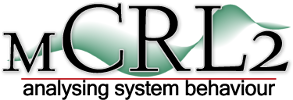
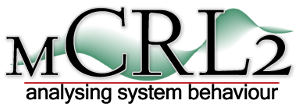
Added our corporate brand identity.

diff --git a/doc/sphinx/_static/css/mcrl2.css b/doc/sphinx/_static/css/mcrl2.css
@@ -3,56 +3,95 @@
  * ~~~~~~~~~~~~~~~~~~~~~~~~~~~~~~~~~~
  */
 
-@import 'theme.css';
+ @import 'theme.css';
 
-/* -- non-standard classes -------------------------------------------------- */
-table.docutils { margin: 0 auto; }
-table.docutils td { padding: 0.3em 0; }
-table.docutils caption { font-family: sans-serif; padding-bottom: 0.5em; border-bottom: 1px solid black; }
-table.docutils.field-list { margin: 0; }
-
-.citation {
-  display: flex;
-  flex-wrap: wrap;
-}
-.citation dt {
-  width: 7rem;
-  background-color: transparent; /* cancel highlighting of targeted line */
-}
-.citation dd {
-  width: calc(100% - 7rem);
-  margin-left: 0;
-  margin-top: 0;
-}
-.citation dd > p {
-  margin-bottom: 0;
-}
-
-/* citations don't have square brackets around them, so we add them with CSS */
-.citation .brackets:before { content: "["; }
-.citation .brackets:after { content: "]"; }
-
-div.tool-docs li { float: left; display: inline; width: 20%; }
-
-div.dparser .admonition-title {
-  font-family: monospace;
-}
-
-.admonition.admonition-release .admonition-title { display: none; }
-.admonition.admonition-release { margin: 1em 0; font-family: sans-serif; text-align: center; }
-
-.invisible {
-    display: none;
-}
-
-.smallcaps {
-    font-variant: small-caps;
-}
-
-/* -- custom layout ----------------------------------------------------------- */
-
-table.frontpage-table td { border: 0; margin: 0; padding: 0; }
-table.teamcity-blurb { margin-top: 1em; width: 100%; white-space: normal; }
-table.teamcity-blurb td { border: 0; vertical-align: middle; }
-
-img.frontpage-logo { margin-top: 1.5em; }
+ /* mCRL2 color theme */
+ :root {
+   --mcrl2-caption:hsl(153, 22%, 18%);
+   --mcrl2-title:hsl(152, 33%, 49%);
+   --mcrl2-light:#c3e2d4;
+ }
+ 
+ /* Non standard classes */
+ table.docutils { margin: 0 auto; }
+ table.docutils td { padding: 0.3em 0; }
+ table.docutils caption { font-family: sans-serif; padding-bottom: 0.5em; border-bottom: 1px solid black; }
+ table.docutils.field-list { margin: 0; }
+ 
+ .citation {
+   display: flex;
+   flex-wrap: wrap;
+ }
+ .citation dt {
+   width: 7rem;
+   background-color: transparent; /* cancel highlighting of targeted line */
+ }
+ .citation dd {
+   width: calc(100% - 7rem);
+   margin-left: 0;
+   margin-top: 0;
+ }
+ .citation dd > p {
+   margin-bottom: 0;
+ }
+ 
+ /* citations don't have square brackets around them, so we add them with CSS */
+ .citation .brackets:before { content: "["; }
+ .citation .brackets:after { content: "]"; }
+ 
+ div.tool-docs li { float: left; display: inline; width: 20%; }
+ div.tool-docs { clear: both; }
+ 
+ div.dparser .admonition-title {
+   font-family: monospace;
+ }
+ 
+ .admonition .admonition-title { background-color: var(--mcrl2-title); }
+ .rst-content .admonition { background: var(--mcrl2-light); }
+ 
+ .admonition.admonition-release .admonition-title { display: none; }
+ .admonition.admonition-release { margin: 1em 0; font-family: sans-serif; text-align: center; background-color:var(--mcrl2-light); }
+ 
+ .admonition.admonition-exercise .admonition-title { background-color: var(--mcrl2-title); }
+ .admonition.admonition-exercise { background-color: var(--mcrl2-light); }
+ 
+ .admonition.admonition-example .admonition-title { background-color: var(--mcrl2-title); }
+ .admonition.admonition-example { background-color: var(--mcrl2-light); }
+ 
+ .admonition.admonition-definition-lts .admonition-title { background-color: var(--mcrl2-title); }
+ .admonition.admonition-definition-lts { background-color: var(--mcrl2-light); }
+ 
+ .invisible {
+     display: none;
+ }
+ 
+ .smallcaps {
+     font-variant: small-caps;
+ }
+ 
+ /* Custom Layout */
+ 
+ table.frontpage-table td { border: 0; margin: 0; padding: 0; }
+ table.teamcity-blurb { margin-top: 1em; width: 100%; }
+ table.teamcity-blurb td { border: 0; vertical-align: middle; white-space: normal; }
+ 
+ img.frontpage-logo { margin-top: 1.5em; }
+ 
+ .rst-content .note {
+   background: var(--mcrl2-light);
+ }
+ .rst-content .note .admonition-title {
+   background: var(--mcrl2-title);
+ }
+ 
+ .wy-menu-vertical p.caption {
+   color: var(--mcrl2-title);
+ }
+ 
+ .wy-side-nav-search {
+   background-color: var(--mcrl2-caption);
+ }
+ 
+ .wy-side-nav-search > div.version {
+   color: var(--mcrl2-light);
+ }

diff --git a/doc/sphinx/conf.py b/doc/sphinx/conf.py
@@ -81,10 +81,11 @@ exclude_patterns = ['.git']
 # a list of builtin themes.
 #
 html_theme = 'sphinx_rtd_theme'
+html_style = 'css/mcrl2.css'
 html_theme_options = {
     'collapse_navigation': False,
     'logo_only': True,
-    'style_external_links': True
+    'style_external_links': False
 }
 html_logo = '_static/mcrl2.png'
 html_sidebars = {
@@ -96,11 +97,6 @@ html_sidebars = {
 # so a file named "default.css" will overwrite the builtin "default.css".
 html_static_path = ['_static']
 html_extra_path = ['_doxygen/output/']
-
-html_css_files = [
-    'css/mcrl2.css'
-]
-
 html_js_files = []
 
 # Tweaking how the "last updated" is displayed
